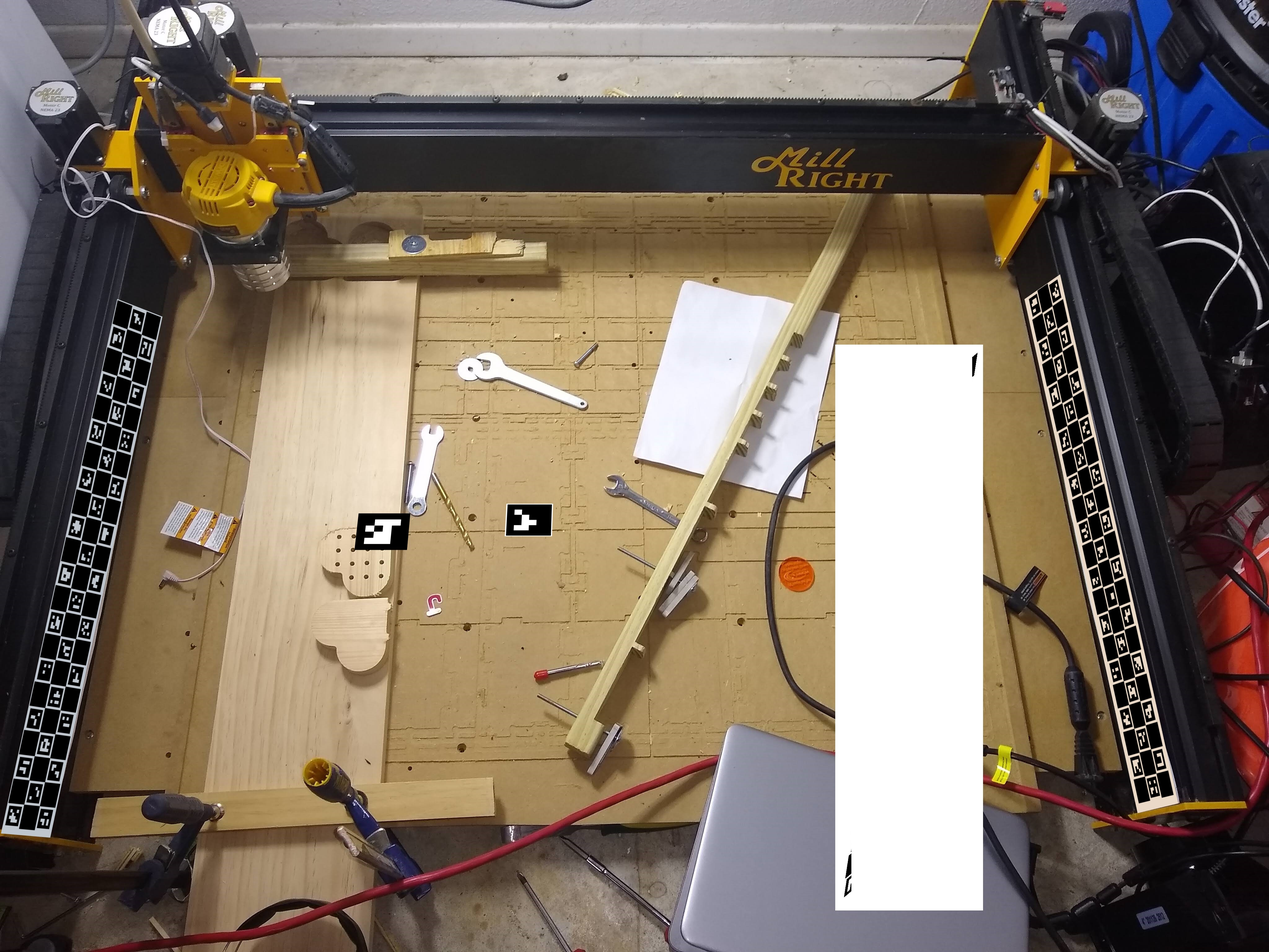
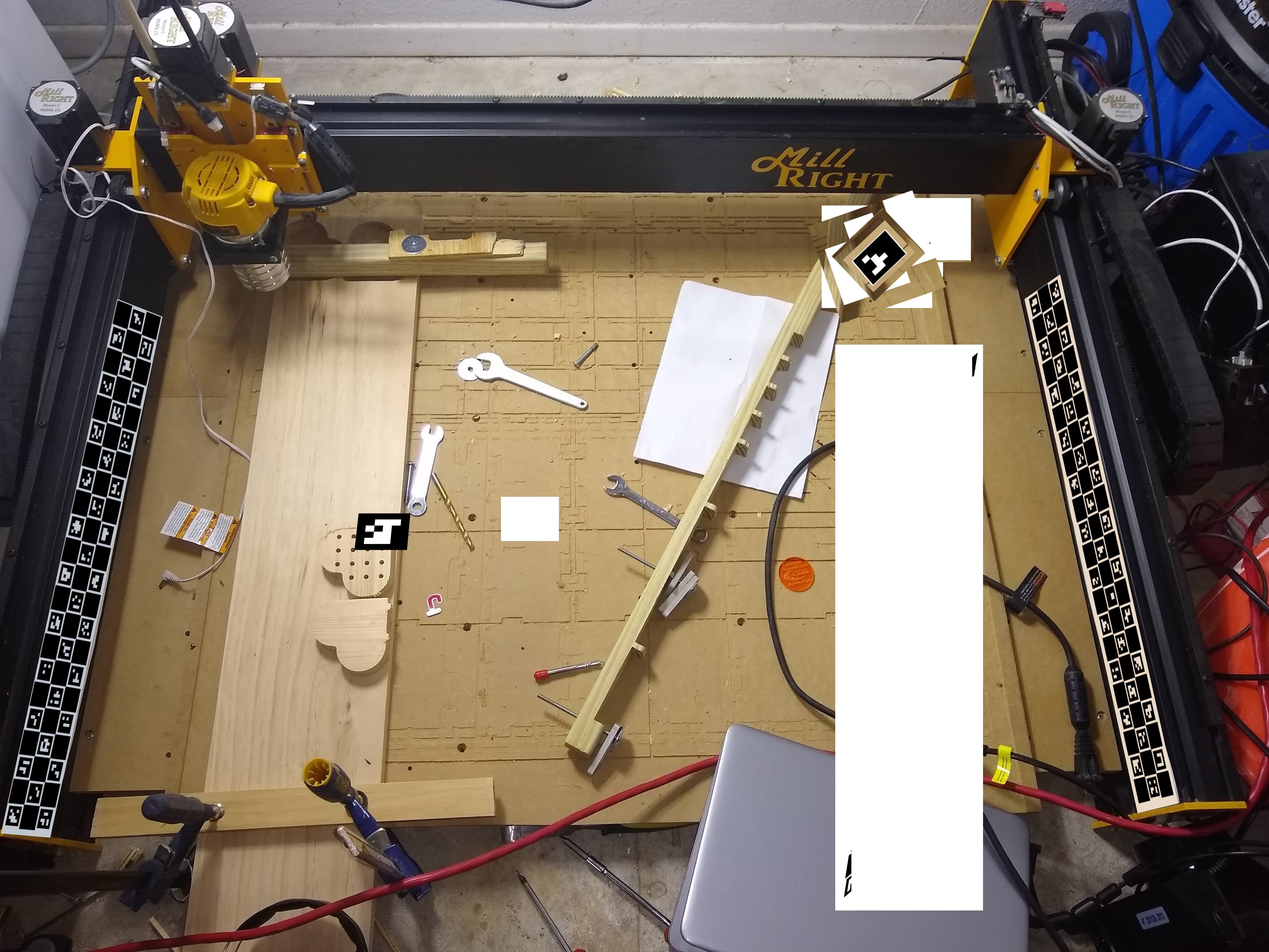
add in estimate of plate angle to probing of plate

Changed region(s): [[0.625, 0.1875, 0.7812, 0.3438], [0.375, 0.5, 0.4375, 0.5938]]

diff --git a/realWorldGcodeSender.py b/realWorldGcodeSender.py
@@ -409,6 +409,9 @@ class OverlayGcode:
 
     def set_ref_loc(self, refPoints):
         self.refPoints = refPoints
+        print("Ref Points = " + str(refPoints))
+        angle = getBoxAngle(refPoints)
+        print("Angle: " + str(angle * 180 / math.pi))
         
     def scalePoints(self, points, scaleX, scaleY):
       for point in points:
@@ -618,6 +621,26 @@ def crop_half_vertically(img):
   right = img[:, width_cutoff:]
   return left, right
 
+def getBoxAngle(points):
+    adjacentPoints = []
+    maxDistance = 0
+    for point in points[1:]:
+        maxDistance = max(maxDistance, math.dist(point, points[0]))
+    for point in points[1:]:
+        # if an adjacent point (not across from box)
+        if math.dist(point, points[0]) != maxDistance:
+            print("adjacen points:")
+            print(points[0])
+            print(point)
+            angle = math.atan2(point[1] - points[0][1], point[0] - points[0][0])
+            break
+    print(angle * 180 / math.pi)
+    # a square is square, so we will pick one of the 4 angles 0, + 90, +180, or +270
+    if angle < 0:
+        angle = angle + math.pi
+    if angle >= math.pi / 2:
+        angle = angle - math.pi / 2
+    return angle
 
 def sortBoxPoints(points, rightSide = True):
   #First sort by X
@@ -927,13 +950,17 @@ class GCodeSender:
     def zero_on_workpice(self, refPoints):
         avgX = (refPoints[0][0] + refPoints[1][0] + refPoints[2][0] + refPoints[3][0]) / 4.0
         avgY = (refPoints[0][1] + refPoints[1][1] + refPoints[2][1] + refPoints[3][1]) / 4.0
+        angle = getBoxAngle(refPoints)
+
 
         self.flushGcodeRespQue()
         self.set_inches()
         self.absolute_move(None, None, -0.25, feed = 50) # Move close to Z limit
 
         print("avgXY: " + str(avgX) + " " + str(avgY))
+        #first test out zero angle, then test out actual angle
         self.probeSequence(0)
+        #self.probeSequence(angle)
 
     def waitOnGCodeComplete(self, gCode):
       resp = None
@@ -1078,10 +1105,10 @@ gray = cv2.cvtColor(frame, cv2.COLOR_BGR2GRAY)
 # Get aruco box information
 ########################################
 boxes, ids, rejectedImgPoints = cv2.aruco.detectMarkers(gray, cv2.aruco.Dictionary_get(cv2.aruco.DICT_4X4_100))
-print("boxes")
-print(boxes)
-print("ids")
-print(ids)
+#print("boxes")
+#print(boxes)
+#print("ids")
+#print(ids)
 
 pixelLoc = [None]*2
 locations = [None]*2
@@ -1140,7 +1167,7 @@ cv2.waitKey()
 gCodeFile = 'test.nc'
 cv2Overhead = cv2.warpPerspective(frame, bedPixelToPhysicalLoc, (frame.shape[1], frame.shape[0]))
 cv2Overhead = cv2.resize(cv2Overhead, (bedViewSizePixels, bedViewSizePixels))
-GCodeOverlay = OverlayGcode(cv2Overhead, gCodeFile, disableSender = False)
+GCodeOverlay = OverlayGcode(cv2Overhead, gCodeFile, disableSender = True)
 
 ########################################
 # Detect box location in overhead image
@@ -1148,12 +1175,21 @@ GCodeOverlay = OverlayGcode(cv2Overhead, gCodeFile, disableSender = False)
 #Change overhead image to gray for box detection
 refPixelLoc    = get_id_loc(frame, boxes, ids, 66)
 refPhysicalLoc = cv2.perspectiveTransform(refPixelLoc.reshape(-1,1,2), bedPixelToPhysicalLoc)
-bedPercent = refPhysicalLoc / [frame.shape[1], frame.shape[0]]
-bedLoc = []
-for a in bedPercent:
-    bedLoc.append(a[0] * [bedSize.X, bedSize.Y])
-print("Bed Loc: " + str(bedLoc))
-GCodeOverlay.set_ref_loc(bedLoc)
+touchPlateLocPercent = refPhysicalLoc / [frame.shape[1], frame.shape[0]]
+touchPlateLoc = []
+for a in touchPlateLocPercent:
+    touchPlateLoc.append(a[0] * [bedSize.X, bedSize.Y])
+print("")
+print("")
+print("")
+print("")
+print("")
+print("")
+print("")
+print("")
+print("")
+print("Touch Plate Loc: " + str(touchPlateLoc))
+GCodeOverlay.set_ref_loc(touchPlateLoc)
 
 ######################################################################
 # Create a G Code sender now that overlay is created
